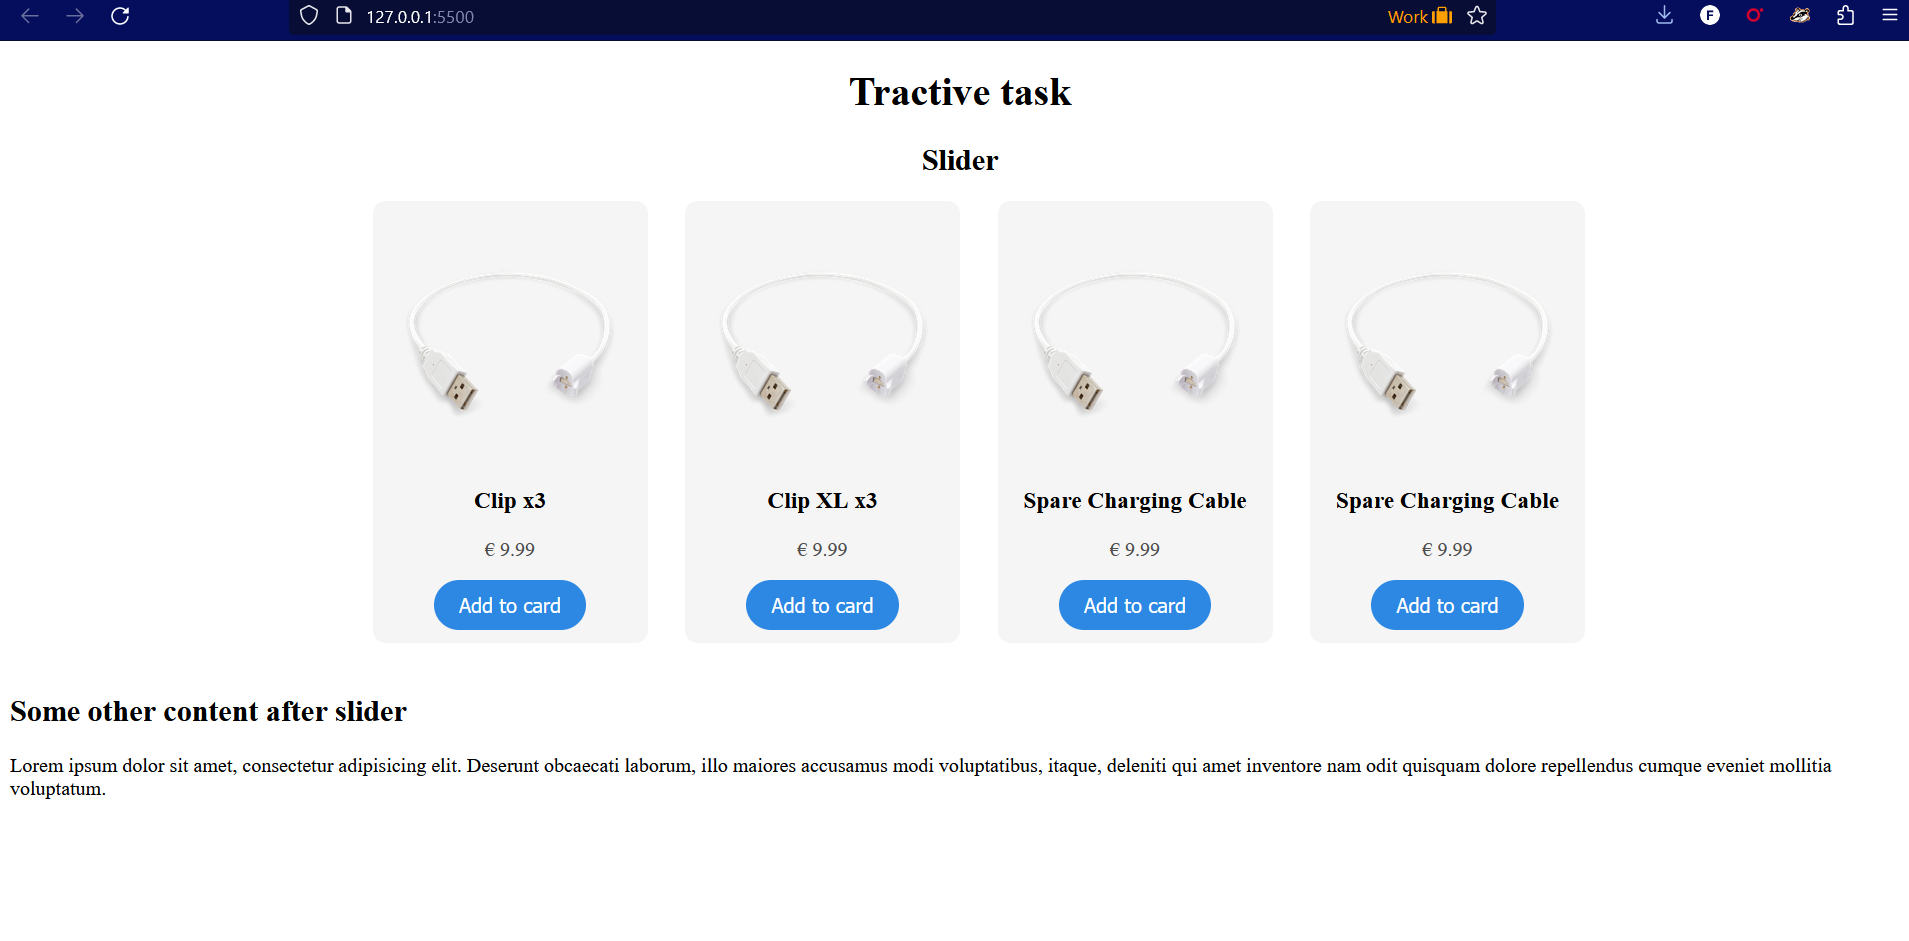
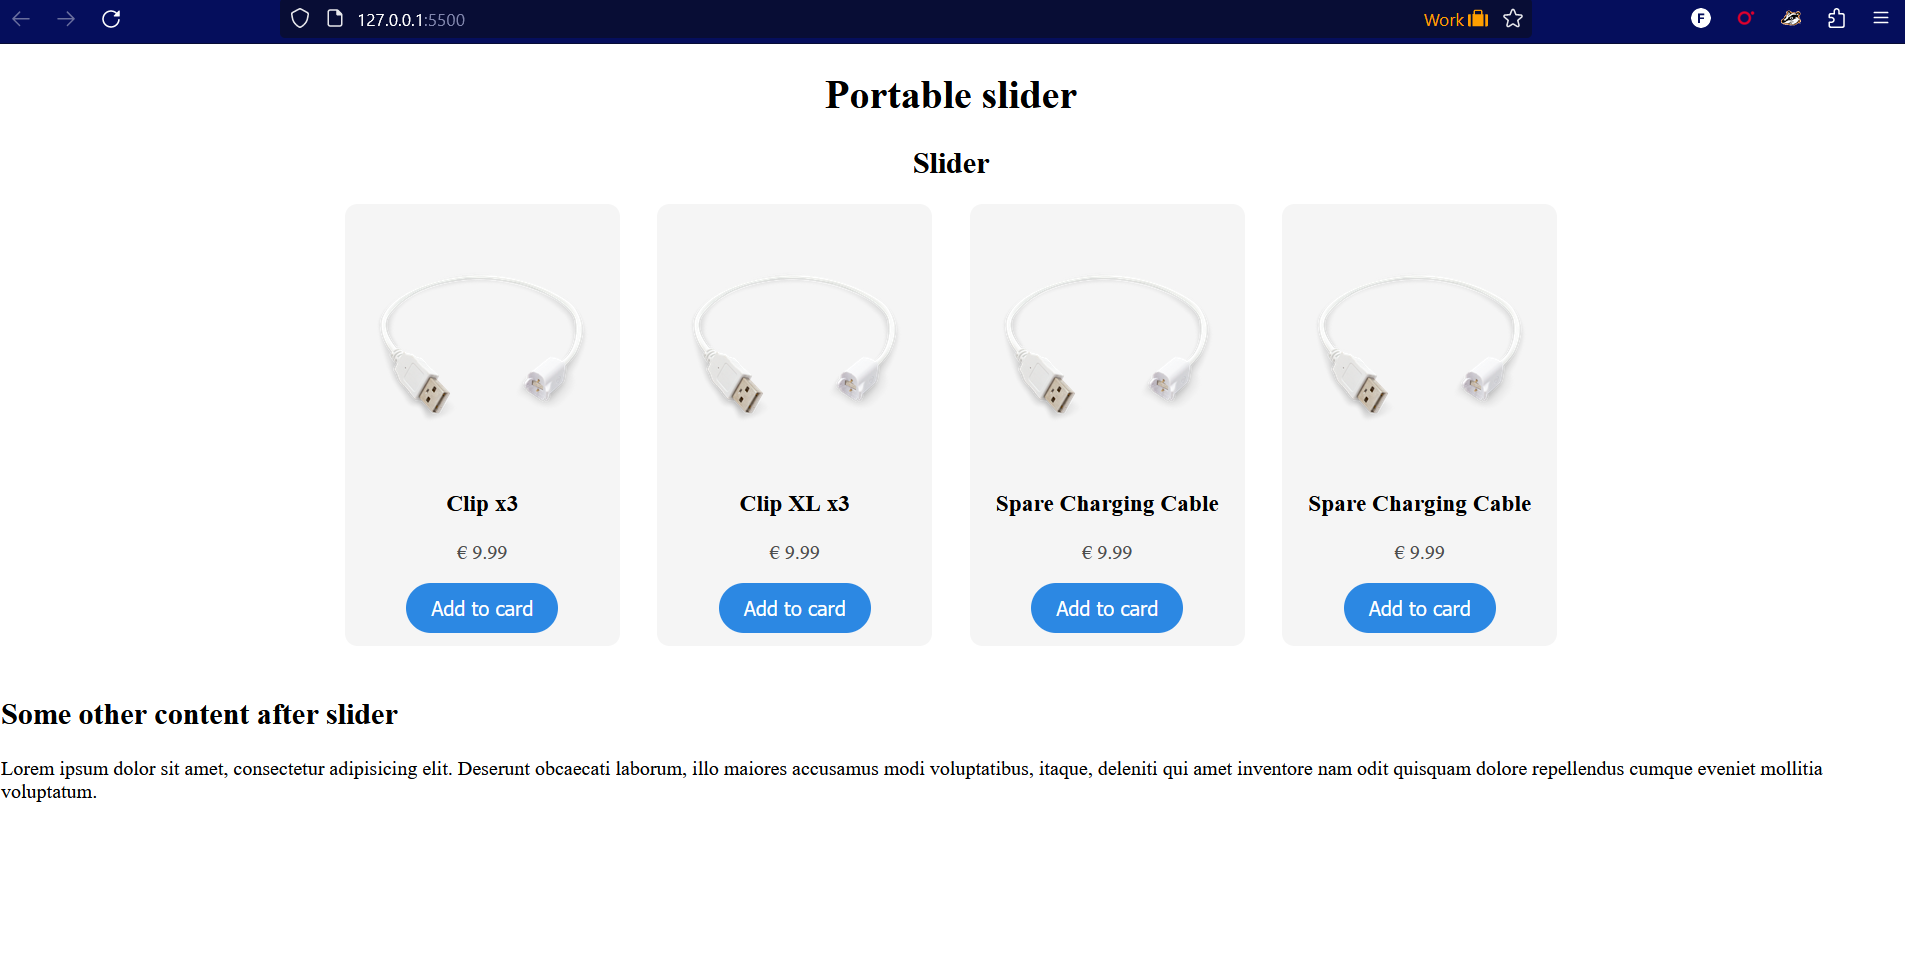
Changed name & fixed screenshots

diff --git a/index.html b/index.html
@@ -4,11 +4,11 @@
         <meta charset="UTF-8" />
         <meta http-equiv="X-UA-Compatible" content="IE=edge" />
         <meta name="viewport" content="width=device-width, initial-scale=1.0" />
-        <title>Tractive task</title>
+        <title>Portable slider</title>
         <link rel="stylesheet" href="css/base.css" />
     </head>
     <body>
-        <h1 style="text-align: center">Tractive task</h1>
+        <h1 style="text-align: center">Portable slider</h1>
         <h2 style="text-align: center">Slider</h2>
         <div class="slider-wrapper">
             <div class="slider-container">
